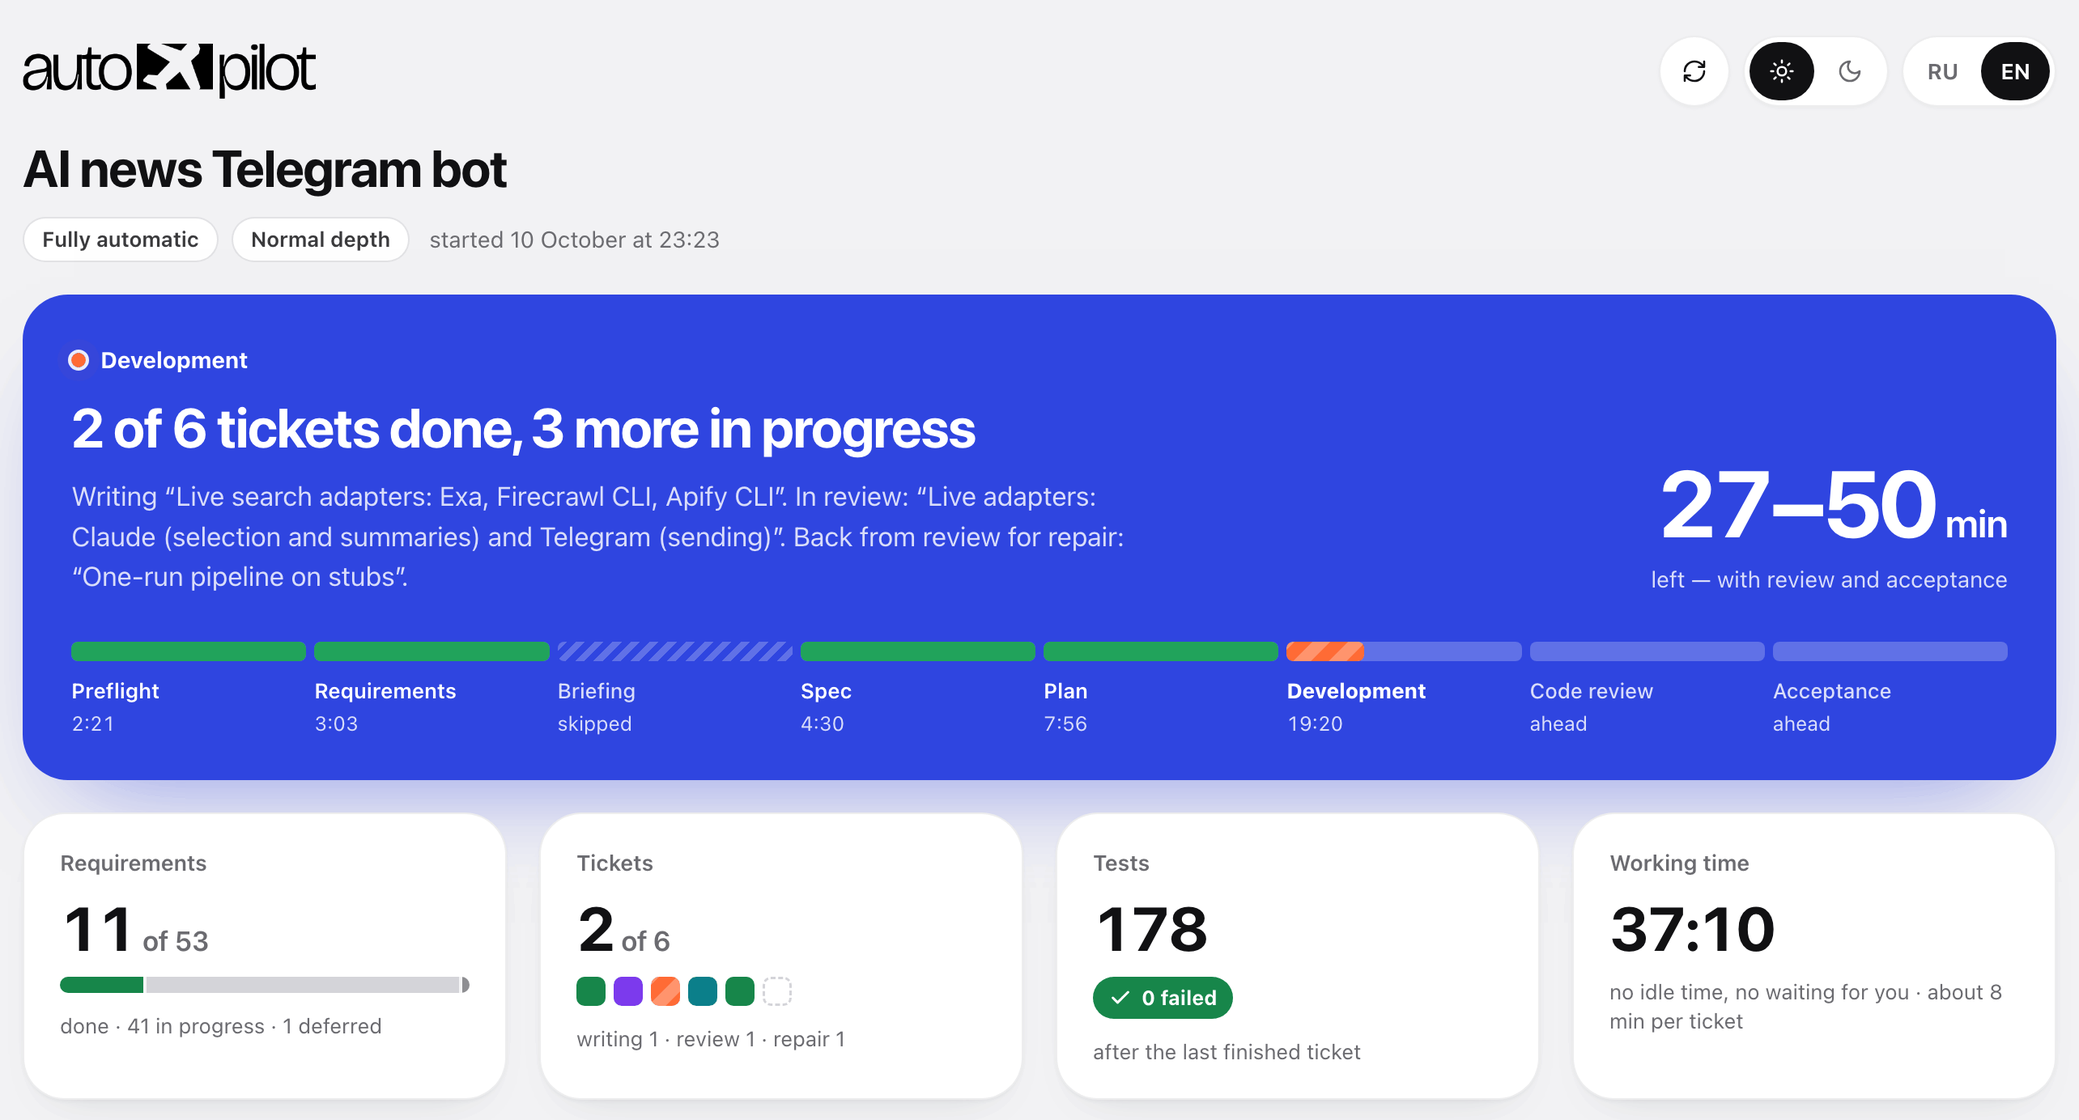
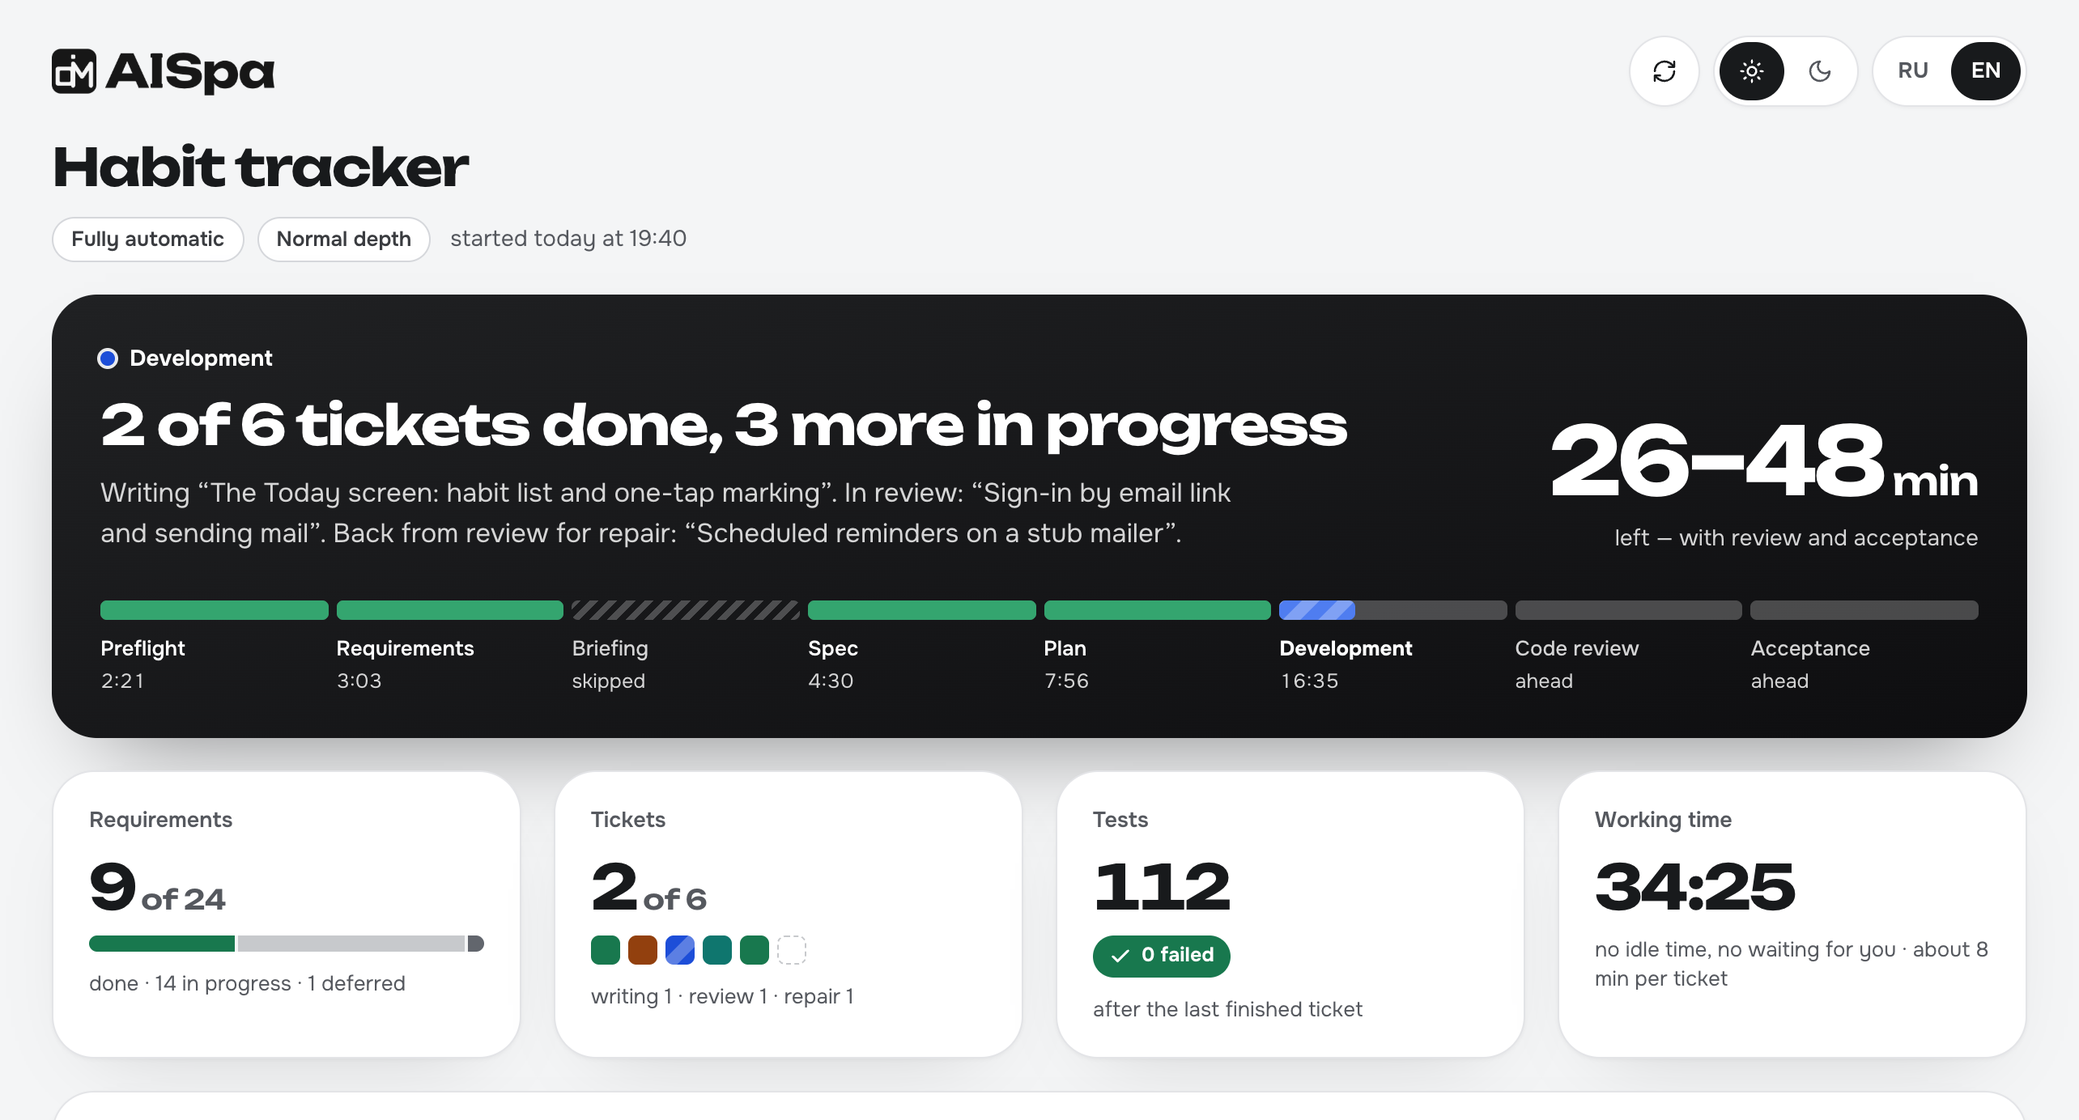
AISpa 1.0: графитовый дизайн AISpa 0.5 на панели, логотип и снимки
Панель: цвета, шрифты (Unbounded, Onest, JetBrains Mono), логотип «AISpa» со знаком AI Мастерской, фокус и выделение —
как в панели AISpa 0.5. Картинки README — наша панель на выдуманном учебном прогоне «Трекер привычек».

diff --git a/skills/aispa/phases/dashboard-template.html b/skills/aispa/phases/dashboard-template.html
@@ -3,51 +3,54 @@
 <head>
 <meta charset="utf-8">
 <meta name="viewport" content="width=device-width, initial-scale=1">
-<title>aispa</title>
+<title>AISpa</title>
+<link rel="preconnect" href="https://fonts.googleapis.com">
+<link rel="preconnect" href="https://fonts.gstatic.com" crossorigin>
+<link href="https://fonts.googleapis.com/css2?family=Unbounded:wght@500..800&family=Onest:wght@400..800&family=JetBrains+Mono:wght@400..700&display=swap" rel="stylesheet">
 <style>
   /* Цвет здесь — сигнал, а не украшение: у каждого состояния сборки свой.
-     Синий — идёт работа, оранжевый — ждём человека или таск пишется,
-     зелёный — сдано, бирюзовый — проверка, фиолетовый — ремонт, красный — упало. */
+     Графит — идёт работа, хром — ждём человека, синий — таск пишется,
+     зелёный — сдано, бирюзовый — проверка, янтарный — ремонт, красный — упало. */
   :root{
-    --bg:#F2F2F4; --card:#fff; --inset:#F4F4F6; --soft:#EBEBEE; --line:rgba(0,0,0,.07); --line2:rgba(0,0,0,.11);
-    --tx:#111113; --tx2:#3A3A3C; --mut:#6B6B70; --quiet:#8E8E93;
-    --hero:#2F45E0; --hero-shadow:rgba(40,60,220,.55);
-    --done:#17864A; --done-soft:#E2F3E9; --done-tx:#126B3B;
-    --now:#FF6B35; --now-on:#1A0D06; --now-soft:#FFE9DF; --now-tx:#AD3D0E;
-    --rev:#0B7F8A; --rev-soft:#DDF2F4; --rev-tx:#08666F;
-    --fix:#7C3AED; --fix-soft:#EFE7FE; --fix-tx:#6427D0;
-    --bad:#DC2626; --bad-soft:#FDE6E6; --bad-tx:#B01C1C;
-    --idle:#D4D4D9; --logo-filter:none;
-    --sh:0 1px 2px rgba(0,0,0,.04),0 12px 30px -20px rgba(20,24,40,.2);
-    --sh-raised:0 1px 2px rgba(0,0,0,.035),0 16px 36px -24px rgba(20,24,40,.24);
+    --bg:#F4F5F6; --card:#FFFFFF; --inset:#F4F5F6; --soft:#ECEDEF; --line:#E3E4E7; --line2:#D5D7DB;
+    --tx:#181A1C; --tx2:#3A3C40; --mut:#55585E; --quiet:#62666D;
+    --hero:linear-gradient(165deg,#202123 0%,#0E0E10 100%); --hero-shadow:rgba(20,20,22,.55);
+    --done:#18784E; --done-soft:#DCFCE7; --done-tx:#166534;
+    --now:#1D4ED8; --now-on:#FFFFFF; --now-soft:#DBEAFE; --now-tx:#1D4ED8;
+    --rev:#0F766E; --rev-soft:#CCFBF1; --rev-tx:#0F766E;
+    --fix:#92400E; --fix-soft:#FEF3C7; --fix-tx:#92400E;
+    --bad:#B91C1C; --bad-soft:#FEE2E2; --bad-tx:#991B1B;
+    --idle:#C7C9CC; --logo-filter:none;
+    --sh:0 1px 2px rgba(20,20,22,.04),0 20px 50px -30px rgba(20,20,22,.22);
+    --sh-raised:0 1px 2px rgba(20,20,22,.04),0 16px 36px -24px rgba(20,20,22,.24);
   }
   @media (prefers-color-scheme:dark){
     :root:not([data-theme]){
-      --bg:#17181B; --card:#222327; --inset:#2C2D32; --soft:#323338; --line:rgba(255,255,255,.08); --line2:rgba(255,255,255,.14);
-      --tx:#F2F2F3; --tx2:#C7C7CC; --mut:#A3A3AA; --quiet:#85858C;
-      --hero:#2639C2; --hero-shadow:rgba(0,0,0,.7);
-      --done:#1E9A56; --done-soft:#1C3527; --done-tx:#5BD68C;
-      --now-soft:#43271C; --now-tx:#FF8A5C;
-      --rev:#0E8A96; --rev-soft:#163538; --rev-tx:#6FD6E0;
-      --fix:#8B4DF5; --fix-soft:#2F2448; --fix-tx:#BFA2FF;
-      --bad:#E5383B; --bad-soft:#47201F; --bad-tx:#FF8B8B;
-      --idle:#4A4B51; --logo-filter:invert(1);
-      --sh:0 1px 0 rgba(255,255,255,.03) inset,0 12px 30px -20px rgba(0,0,0,.75);
+      --bg:#121316; --card:#202226; --inset:#2A2C31; --soft:#303238; --line:#33353A; --line2:#414349;
+      --tx:#F1F2F4; --tx2:#D5D7DB; --mut:#C1C3C8; --quiet:#9FA2A9;
+      --hero:linear-gradient(165deg,#2B2D32 0%,#16171A 100%); --hero-shadow:rgba(0,0,0,.7);
+      --done:#18784E; --done-soft:#123523; --done-tx:#86EFAC;
+      --now-soft:#192E50; --now-tx:#93C5FD;
+      --rev:#0F766E; --rev-soft:#123D38; --rev-tx:#99F6E4;
+      --fix:#92400E; --fix-soft:#3D3217; --fix-tx:#FDE68A;
+      --bad:#B91C1C; --bad-soft:#431C22; --bad-tx:#FCA5A5;
+      --idle:#4A4C52; --logo-filter:invert(1);
+      --sh:0 1px 0 rgba(255,255,255,.04) inset,0 20px 50px -30px rgba(0,0,0,.8);
       --sh-raised:0 16px 36px -24px rgba(0,0,0,.8);
       color-scheme:dark;
     }
   }
   :root[data-theme="dark"]{
-    --bg:#17181B; --card:#222327; --inset:#2C2D32; --soft:#323338; --line:rgba(255,255,255,.08); --line2:rgba(255,255,255,.14);
-    --tx:#F2F2F3; --tx2:#C7C7CC; --mut:#A3A3AA; --quiet:#85858C;
-    --hero:#2639C2; --hero-shadow:rgba(0,0,0,.7);
-    --done:#1E9A56; --done-soft:#1C3527; --done-tx:#5BD68C;
-    --now-soft:#43271C; --now-tx:#FF8A5C;
-    --rev:#0E8A96; --rev-soft:#163538; --rev-tx:#6FD6E0;
-    --fix:#8B4DF5; --fix-soft:#2F2448; --fix-tx:#BFA2FF;
-    --bad:#E5383B; --bad-soft:#47201F; --bad-tx:#FF8B8B;
-    --idle:#4A4B51; --logo-filter:invert(1);
-    --sh:0 1px 0 rgba(255,255,255,.03) inset,0 12px 30px -20px rgba(0,0,0,.75);
+    --bg:#121316; --card:#202226; --inset:#2A2C31; --soft:#303238; --line:#33353A; --line2:#414349;
+    --tx:#F1F2F4; --tx2:#D5D7DB; --mut:#C1C3C8; --quiet:#9FA2A9;
+    --hero:linear-gradient(165deg,#2B2D32 0%,#16171A 100%); --hero-shadow:rgba(0,0,0,.7);
+    --done:#18784E; --done-soft:#123523; --done-tx:#86EFAC;
+    --now-soft:#192E50; --now-tx:#93C5FD;
+    --rev:#0F766E; --rev-soft:#123D38; --rev-tx:#99F6E4;
+    --fix:#92400E; --fix-soft:#3D3217; --fix-tx:#FDE68A;
+    --bad:#B91C1C; --bad-soft:#431C22; --bad-tx:#FCA5A5;
+    --idle:#4A4C52; --logo-filter:invert(1);
+    --sh:0 1px 0 rgba(255,255,255,.04) inset,0 20px 50px -30px rgba(0,0,0,.8);
     --sh-raised:0 16px 36px -24px rgba(0,0,0,.8);
     color-scheme:dark;
   }
@@ -55,11 +58,14 @@
   [hidden]{display:none!important}
   html{-webkit-text-size-adjust:100%}
   body{margin:0;background:var(--bg);color:var(--tx);
-    font:15px/1.5 -apple-system,BlinkMacSystemFont,"SF Pro Text","Segoe UI",system-ui,sans-serif;
+    font:15px/1.5 'Onest',-apple-system,BlinkMacSystemFont,"Segoe UI",system-ui,sans-serif;
     -webkit-font-smoothing:antialiased;font-synthesis-weight:none}
-  ::selection{background:rgba(255,107,53,.25)}
-  :focus-visible{outline:2px solid var(--now);outline-offset:3px}
-  code,.mono{font-family:ui-monospace,"SF Mono",Menlo,Consolas,monospace}
+  ::selection{background:rgba(199,201,204,.4)}
+  /* Фокус как в панели 0.5: контур цвета основного текста темы; на тёмных плашках — светлый контур и серебряное гало. */
+  :focus-visible{outline:2px solid var(--tx);outline-offset:3px}
+  .tabs button:focus-visible,.iconbtn:focus-visible,.chip:focus-visible,.btn-soft:focus-visible{box-shadow:0 0 0 5px rgba(199,201,204,.4)}
+  .hero:not(.ask) :focus-visible{outline-color:#fff;box-shadow:0 0 0 5px rgba(199,201,204,.4)}
+  code,.mono{font-family:'JetBrains Mono',ui-monospace,"SF Mono",Menlo,Consolas,monospace}
   .tnum,.big b,.tv,.s-time,.tl-time,.ev em{font-variant-numeric:tabular-nums}
   .wrap{max-width:1320px;margin:0 auto;padding:22px 32px 40px;display:flex;flex-direction:column;gap:20px;min-width:0}
   .card{background:var(--card);border:1px solid var(--line);border-radius:26px;box-shadow:var(--sh);padding:24px 26px;min-width:0}
@@ -84,7 +90,7 @@
   /* «Обновить сейчас»: пока state.js грузится, стрелка крутится — нажатие видно */
   .iconbtn.busy svg{animation:spin .8s linear infinite}
   @keyframes spin{to{transform:rotate(360deg)}}
-  .title h1{margin:0;font-size:32px;line-height:1.12;font-weight:700;letter-spacing:-.03em;text-wrap:balance;overflow-wrap:anywhere}
+  .title h1{font-family:'Unbounded','Onest',-apple-system,sans-serif;margin:0;font-size:32px;line-height:1.12;font-weight:700;letter-spacing:-.03em;text-wrap:balance;overflow-wrap:anywhere}
   .meta{display:flex;flex-wrap:wrap;align-items:center;gap:8px;margin-top:12px}
   .tag{display:inline-flex;align-items:center;height:28px;padding:0 11px;border-radius:999px;background:var(--card);border:1px solid var(--line2);font-size:13px;font-weight:600;color:var(--tx2)}
   .meta .when{font-size:14px;color:var(--mut);margin-left:4px}
@@ -95,28 +101,28 @@
   .hero{--h-tx:#fff;--h-mut:rgba(255,255,255,.82);--h-track:rgba(255,255,255,.24);
     border-radius:28px;padding:28px 30px 26px;display:flex;flex-direction:column;gap:28px;
     background:var(--hero);color:var(--h-tx);box-shadow:0 30px 60px -32px var(--hero-shadow);min-width:0}
-  .hero.ask{background:#FF6B35;--h-tx:#1A0D06;--h-mut:rgba(26,13,6,.74);--h-track:rgba(26,13,6,.16);box-shadow:0 30px 60px -30px rgba(200,70,20,.6)}
-  .hero.won{background:#17864A;--h-track:rgba(255,255,255,.22);box-shadow:0 30px 60px -30px rgba(23,134,74,.6)}
-  .hero.bad{background:#C81E1E;--h-track:rgba(255,255,255,.22);box-shadow:0 30px 60px -30px rgba(200,30,30,.55)}
+  .hero.ask{background:linear-gradient(165deg,#FFFFFF 0%,#E0E2E5 45%,#C7C9CC 100%);--h-tx:#171717;--h-mut:rgba(23,23,23,.78);--h-track:rgba(23,23,23,.14);box-shadow:0 30px 60px -30px rgba(20,20,22,.45),inset 0 1px 0 #fff}
+  .hero.won{background:#18784E;--h-track:rgba(255,255,255,.22);box-shadow:0 30px 60px -30px rgba(24,120,78,.6)}
+  .hero.bad{background:#B91C1C;--h-track:rgba(255,255,255,.22);box-shadow:0 30px 60px -30px rgba(185,28,28,.55)}
   .hero-top{display:flex;flex-wrap:wrap;justify-content:space-between;align-items:flex-end;gap:20px 40px}
   .hero-main{flex:1 1 420px;min-width:0}
   .state{display:inline-flex;align-items:center;gap:9px;font-size:14px;font-weight:700;margin-bottom:12px}
-  .hero h2{margin:0;font-size:34px;line-height:1.1;font-weight:700;letter-spacing:-.03em;text-wrap:balance;max-width:32ch;overflow-wrap:anywhere}
+  .hero h2{font-family:'Unbounded','Onest',-apple-system,sans-serif;margin:0;font-size:34px;line-height:1.1;font-weight:700;letter-spacing:-.03em;text-wrap:balance;max-width:32ch;overflow-wrap:anywhere}
   .lead{margin:12px 0 0;font-size:16.5px;line-height:1.5;color:var(--h-mut);max-width:64ch}
   .lead b{color:var(--h-tx);font-weight:650}
   .big{text-align:right;flex:0 0 auto}
-  .big b{display:block;font-size:58px;line-height:.95;font-weight:700;letter-spacing:-.045em}
+  .big b{font-family:'Unbounded','Onest',-apple-system,sans-serif;display:block;font-size:58px;line-height:.95;font-weight:700;letter-spacing:-.045em}
   .big b small{font-size:24px;letter-spacing:-.02em;font-weight:600;margin-left:6px}
   .big>span{display:block;font-size:14px;color:var(--h-mut);margin-top:10px}
   .big .paused{display:block;margin-top:6px;font-weight:650;color:var(--h-tx)}
-  .hint{display:inline-flex;align-items:center;gap:10px;margin-top:18px;min-height:44px;padding:8px 18px;border-radius:22px;background:#1A0D06;color:#fff;font-size:15px;font-weight:600;line-height:1.35}
+  .hint{display:inline-flex;align-items:center;gap:10px;margin-top:18px;min-height:44px;padding:8px 18px;border-radius:22px;background:#171717;color:#fff;font-size:15px;font-weight:600;line-height:1.35}
   .track{display:grid;grid-template-columns:repeat(8,minmax(0,1fr));gap:5px}
   .seg{height:12px;border-radius:4px;background:var(--h-track);overflow:hidden}
   .seg i{display:block;height:100%;border-radius:4px}
-  .s-done .seg i{width:100%;background:#21A35B}
+  .s-done .seg i{width:100%;background:#34A56F}
   .hero.won .s-done .seg i,.hero.bad .s-done .seg i{background:#fff}
-  .hero.ask .s-done .seg i{background:#1A0D06}
-  .s-now .seg i{background-color:var(--now)}
+  .hero.ask .s-done .seg i{background:#171717}
+  .s-now .seg i{background-color:#4F7DF0}
   .hero.ask .s-now .seg i{background-color:#fff}
   .s-fail .seg i{width:100%;background:#fff}
   .s-skip .seg{background:repeating-linear-gradient(135deg,var(--h-track) 0 4px,transparent 4px 8px)}
@@ -125,19 +131,19 @@
   .s-pend .s-name,.s-skip .s-name{color:var(--h-mut);font-weight:500}
   .s-time{display:block;margin-top:2px;font-size:12.5px;color:var(--h-mut)}
   .live{width:9px;height:9px;border-radius:50%;background:var(--now);outline:2px solid rgba(255,255,255,.9);display:inline-block;flex:0 0 auto;animation:pulse 1.8s cubic-bezier(.16,1,.3,1) infinite}
-  .hero.ask .live{background:#1A0D06;outline:0}
-  @keyframes pulse{0%{box-shadow:0 0 0 0 rgba(255,107,53,.6)}70%{box-shadow:0 0 0 9px rgba(255,107,53,0)}100%{box-shadow:0 0 0 0 rgba(255,107,53,0)}}
+  .hero.ask .live{background:#171717;outline:0}
+  @keyframes pulse{0%{box-shadow:0 0 0 0 rgba(29,78,216,.6)}70%{box-shadow:0 0 0 9px rgba(29,78,216,0)}100%{box-shadow:0 0 0 0 rgba(29,78,216,0)}}
   .badge-ic{width:26px;height:26px;border-radius:50%;background:#fff;display:inline-flex;align-items:center;justify-content:center}
-  .hero.won .badge-ic{color:#17864A}.hero.bad .badge-ic{color:#C81E1E}
+  .hero.won .badge-ic{color:#18784E}.hero.bad .badge-ic{color:#B91C1C}
   .stripes{background-image:linear-gradient(135deg,rgba(255,255,255,.28) 25%,transparent 25%,transparent 50%,rgba(255,255,255,.28) 50%,rgba(255,255,255,.28) 75%,transparent 75%,transparent);background-size:22px 22px;animation:stripes 1.1s linear infinite}
-  .hero.ask .stripes{background-image:linear-gradient(135deg,rgba(255,107,53,.5) 25%,transparent 25%,transparent 50%,rgba(255,107,53,.5) 50%,rgba(255,107,53,.5) 75%,transparent 75%,transparent)}
+  .hero.ask .stripes{background-image:linear-gradient(135deg,rgba(23,23,23,.28) 25%,transparent 25%,transparent 50%,rgba(23,23,23,.28) 50%,rgba(23,23,23,.28) 75%,transparent 75%,transparent)}
   @keyframes stripes{to{background-position:22px 0}}
 
   /* ── плитки ───────────────────────────────────────────────── */
   .tiles{display:grid;grid-template-columns:repeat(4,minmax(0,1fr));gap:20px}
   .tile{display:flex;flex-direction:column;gap:11px;padding:20px 22px}
   .tk{font-size:13.5px;font-weight:600;color:var(--mut)}
-  .tv{font-size:38px;line-height:1;font-weight:700;letter-spacing:-.04em}
+  .tv{font-family:'Unbounded','Onest',-apple-system,sans-serif;font-size:38px;line-height:1;font-weight:700;letter-spacing:-.04em}
   .tv small{font-size:17px;font-weight:600;color:var(--mut);letter-spacing:-.01em;margin-left:4px}
   .tv.dim{color:var(--quiet)}
   .ts{font-size:13px;color:var(--mut);line-height:1.4}
@@ -171,7 +177,7 @@
   .bar{height:42px;border-radius:12px;display:flex;align-items:center;justify-content:space-between;gap:10px;padding:0 6px 0 15px;font-size:14.5px;font-weight:650;min-width:0}
   .bar .nm{overflow:hidden;text-overflow:ellipsis;white-space:nowrap;min-width:0}
   .chipin{flex:0 0 auto;display:inline-flex;align-items:center;gap:6px;height:30px;padding:0 10px;border-radius:999px;background:rgba(255,255,255,.2);font-size:12.5px;font-weight:700;white-space:nowrap}
-  .f-now .chipin{background:rgba(26,13,6,.12)}
+  .f-now .chipin{background:rgba(255,255,255,.2)}
   .f-wait .chipin{background:var(--inset);color:var(--mut)}
   .tl-time{font-size:13.5px;font-weight:650;text-align:right;color:var(--mut);white-space:nowrap}
   .tl-time.now{color:var(--now-tx)}.tl-time.fix{color:var(--fix-tx)}.tl-time.rev{color:var(--rev-tx)}.tl-time.bad{color:var(--bad-tx)}
@@ -204,7 +210,7 @@
   .gi{width:32px;height:32px;border-radius:50%;display:flex;align-items:center;justify-content:center}
   .gi.ok{background:var(--done);color:#fff}
   .gi.wait{color:var(--quiet);border:1.5px dashed var(--idle)}
-  .gi.warn{background:var(--now);color:var(--now-on)}
+  .gi.warn{background:var(--fix);color:#fff}
   .gi.bad{background:var(--bad);color:#fff}
   .gt{font-size:15px;font-weight:650;line-height:1.35}
   .gs{font-size:13px;color:var(--mut);margin-top:2px;line-height:1.45}
@@ -225,10 +231,10 @@
   .nl li+li{margin-top:7px}
   .nl.n0{margin-top:0}
   .nl+.btn-soft{margin-top:12px}
-  .prep{border:2px solid var(--now)}
-  .prep .wt i{width:28px;height:28px;border-radius:8px;background:var(--now);color:var(--now-on);display:inline-flex;align-items:center;justify-content:center}
+  .prep{border:2px solid var(--tx)}
+  .prep .wt i{width:28px;height:28px;border-radius:8px;background:var(--tx);color:var(--card);display:inline-flex;align-items:center;justify-content:center}
   .blind-top{display:flex;align-items:center;gap:18px;margin-bottom:6px;flex-wrap:wrap}
-  .blind-top b{font-size:38px;font-weight:700;letter-spacing:-.04em;line-height:1}
+  .blind-top b{font-family:'Unbounded','Onest',-apple-system,sans-serif;font-size:38px;font-weight:700;letter-spacing:-.04em;line-height:1}
   .blind-top b small{font-size:17px;color:var(--mut);font-weight:600;margin-left:4px}
   .blind-top p{margin:0;flex:1 1 260px;font-size:14px;line-height:1.5;color:var(--mut)}
   .empty{display:flex;gap:12px;align-items:flex-start;padding:16px 18px;border-radius:16px;border:1.5px dashed var(--idle);font-size:14.5px;line-height:1.5;color:var(--tx2)}
@@ -351,7 +357,7 @@ const POLL_MS = 10000;
 const IDLE_CAP_MS = 2700000;
 
 // Логотип — одна картинка: в тёмной теме её инвертирует CSS (--logo-filter).
[2 lines of base64/hex data omitted]
 
 const IC = {
   check: 'M20 6 9 17l-5-5',
@@ -1178,7 +1184,7 @@ function render(lang){
   const app = document.getElementById('app');
   app.innerHTML = `
   <header class="top">
-    <img class="logo" src="${LOGO}" alt="aispa">
+    <img class="logo" src="${LOGO}" alt="AISpa">
     <div class="tools">
       ${fin ? '' : `<button type="button" class="iconbtn" data-refresh title="${L.refresh}" aria-label="${L.refresh}">${ic('sync')}</button>`}
       <div class="tabs" role="group" aria-label="${L.themeLabel}">
@@ -1254,7 +1260,7 @@ function bootFail(why){
   const app = document.getElementById('app');
   if (!app) return;
   const L = I18N[(navigator.language || '').startsWith('ru') ? 'ru' : 'en'];
-  app.innerHTML = `<header class="top"><img class="logo" src="${LOGO}" alt="aispa"></header>
+  app.innerHTML = `<header class="top"><img class="logo" src="${LOGO}" alt="AISpa"></header>
     <section class="card"><h3 class="wt">${L.boot}</h3><p class="muted" style="margin-top:10px">${why}</p>
     <p class="muted" style="margin-top:10px">${L.bootHelp}</p></section>`;
 }

diff --git a/README.md b/README.md
@@ -2,7 +2,7 @@
   <picture>
     <source media="(prefers-color-scheme: dark)" srcset="assets/aispa-logo-dark.png">
     <source media="(prefers-color-scheme: light)" srcset="assets/aispa-logo-light.png">
-    <img src="assets/aispa-logo-light.png" alt="aispa" width="420">
+    <img src="assets/aispa-logo-light.png" alt="AISpa" width="420">
   </picture>
 </p>
 

diff --git a/README.ru.md b/README.ru.md
@@ -2,7 +2,7 @@
   <picture>
     <source media="(prefers-color-scheme: dark)" srcset="assets/aispa-logo-dark.png">
     <source media="(prefers-color-scheme: light)" srcset="assets/aispa-logo-light.png">
-    <img src="assets/aispa-logo-light.png" alt="aispa" width="420">
+    <img src="assets/aispa-logo-light.png" alt="AISpa" width="420">
   </picture>
 </p>
 
